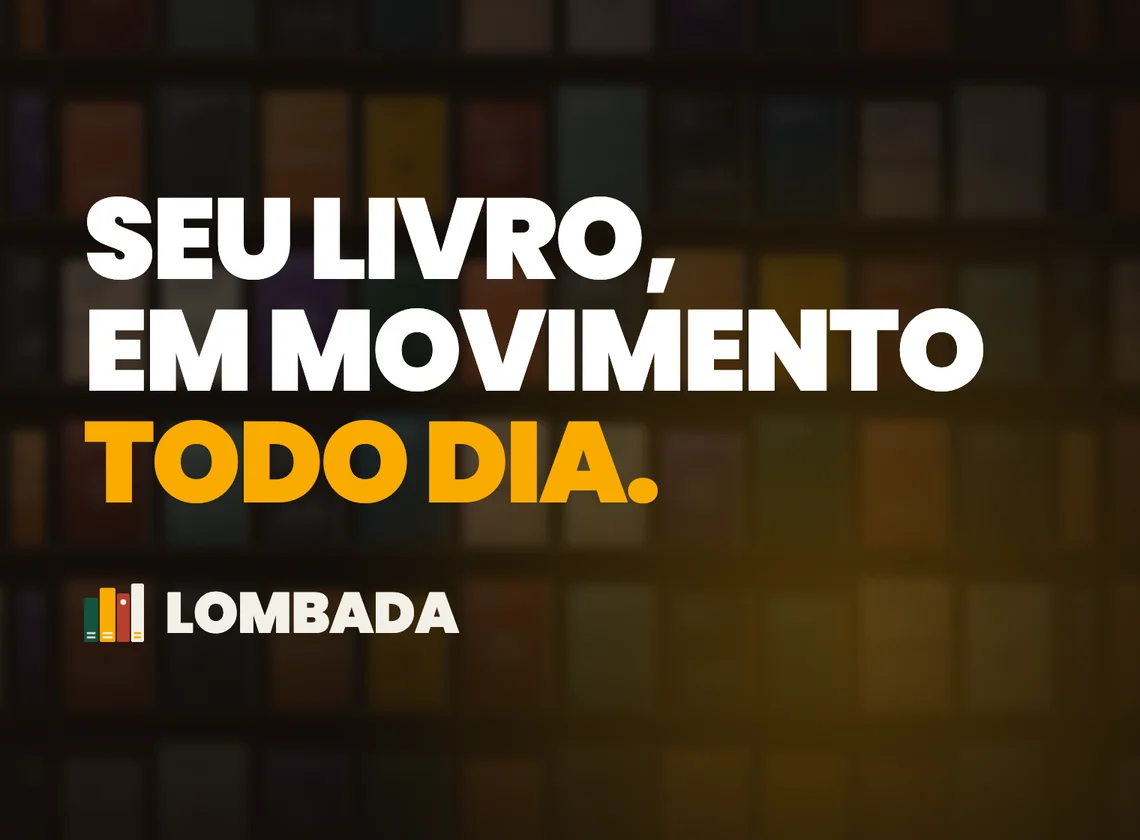
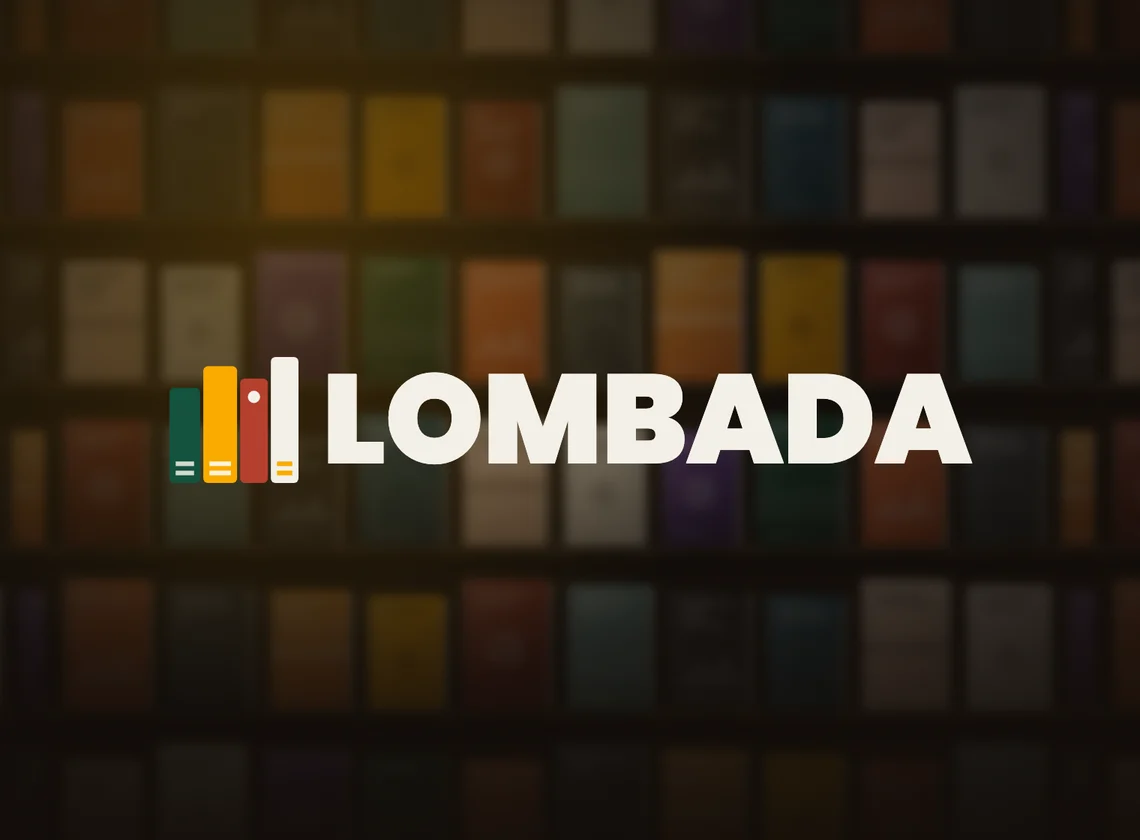
Quadro do LOMBADA: só a marca sobre a estante do login (cliente)

diff --git a/5c0424242e97/index.html b/5c0424242e97/index.html
@@ -845,7 +845,7 @@ footer .legal { max-width: 720px; margin: 14px auto 0; }
         </div>
       </div>
       <div class="lmbc rv">
-        <div class="lmbc__art lmbc__art--img"><img src="../ae8a9e17e350/assets/lombada-quadro.webp" alt="LOMBADA: seu livro, em movimento todo dia." width="1140" height="840" loading="lazy" decoding="async"></div>
+        <div class="lmbc__art lmbc__art--img"><img src="../ae8a9e17e350/assets/lombada-quadro.webp" alt="LOMBADA" width="1140" height="840" loading="lazy" decoding="async"></div>
         <div class="lmbc__b">
           <span class="lv__k"><span class="d9-only">6 anos de acesso hoje</span><span class="after-only">3 anos de acesso</span></span>
           <h3>A ferramenta que nunca deixa o seu livro parar.</h3>

diff --git a/c966d3cc27f2/index.html b/c966d3cc27f2/index.html
@@ -844,7 +844,7 @@ footer .legal { max-width: 720px; margin: 14px auto 0; }
         </div>
       </div>
       <div class="lmbc rv">
-        <div class="lmbc__art lmbc__art--img"><img src="../ae8a9e17e350/assets/lombada-quadro.webp" alt="LOMBADA: seu livro, em movimento todo dia." width="1140" height="840" loading="lazy" decoding="async"></div>
+        <div class="lmbc__art lmbc__art--img"><img src="../ae8a9e17e350/assets/lombada-quadro.webp" alt="LOMBADA" width="1140" height="840" loading="lazy" decoding="async"></div>
         <div class="lmbc__b">
           <span class="lv__k"><span class="d9-only">6 anos de acesso hoje</span><span class="after-only">3 anos de acesso</span></span>
           <h3>A ferramenta que nunca deixa o seu livro parar.</h3>

diff --git a/eda7d6898635/index.html b/eda7d6898635/index.html
@@ -844,7 +844,7 @@ footer .legal { max-width: 720px; margin: 14px auto 0; }
         </div>
       </div>
       <div class="lmbc rv">
-        <div class="lmbc__art lmbc__art--img"><img src="../ae8a9e17e350/assets/lombada-quadro.webp" alt="LOMBADA: seu livro, em movimento todo dia." width="1140" height="840" loading="lazy" decoding="async"></div>
+        <div class="lmbc__art lmbc__art--img"><img src="../ae8a9e17e350/assets/lombada-quadro.webp" alt="LOMBADA" width="1140" height="840" loading="lazy" decoding="async"></div>
         <div class="lmbc__b">
           <span class="lv__k"><span class="d9-only">6 anos de acesso hoje</span><span class="after-only">3 anos de acesso</span></span>
           <h3>A ferramenta que nunca deixa o seu livro parar.</h3>

diff --git a/ae8a9e17e350/index.html b/ae8a9e17e350/index.html
@@ -845,7 +845,7 @@ footer .legal { max-width: 720px; margin: 14px auto 0; }
         </div>
       </div>
       <div class="lmbc rv">
-        <div class="lmbc__art lmbc__art--img"><img src="assets/lombada-quadro.webp" alt="LOMBADA: seu livro, em movimento todo dia." width="1140" height="840" loading="lazy" decoding="async"></div>
+        <div class="lmbc__art lmbc__art--img"><img src="assets/lombada-quadro.webp" alt="LOMBADA" width="1140" height="840" loading="lazy" decoding="async"></div>
         <div class="lmbc__b">
           <span class="lv__k"><span class="d9-only">6 anos de acesso hoje</span><span class="after-only">3 anos de acesso</span></span>
           <h3>A ferramenta que nunca deixa o seu livro parar.</h3>

diff --git a/_tools/gerar_black_venda.py b/_tools/gerar_black_venda.py
@@ -958,7 +958,7 @@ footer .legal {{ max-width: 720px; margin: 14px auto 0; }}
         </div>
       </div>
       <div class="lmbc rv">
-        <div class="lmbc__art lmbc__art--img"><img src="assets/lombada-quadro.webp" alt="LOMBADA: seu livro, em movimento todo dia." width="1140" height="840" loading="lazy" decoding="async"></div>
+        <div class="lmbc__art lmbc__art--img"><img src="assets/lombada-quadro.webp" alt="LOMBADA" width="1140" height="840" loading="lazy" decoding="async"></div>
         <div class="lmbc__b">
           <span class="lv__k"><span class="d9-only">6 anos de acesso hoje</span><span class="after-only">3 anos de acesso</span></span>
           <h3>A ferramenta que nunca deixa o seu livro parar.</h3>
